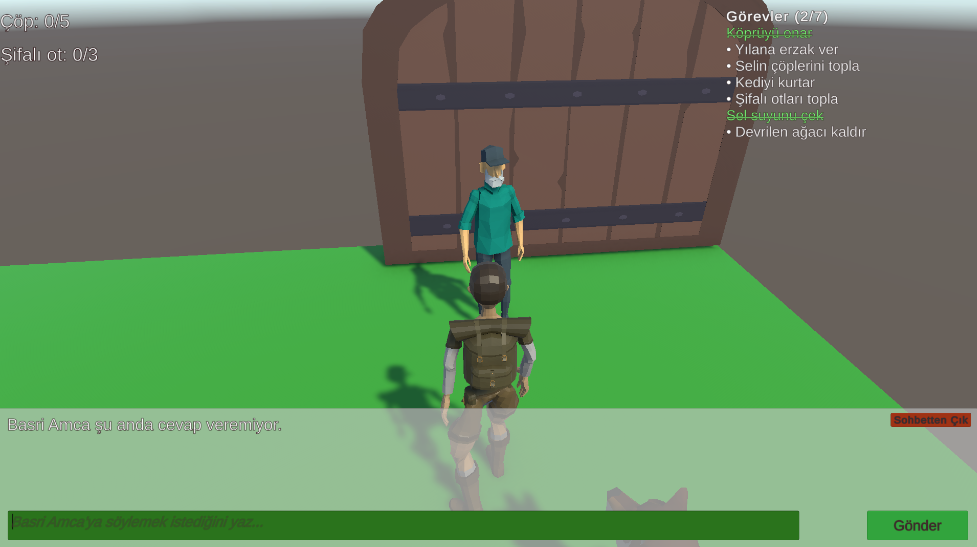
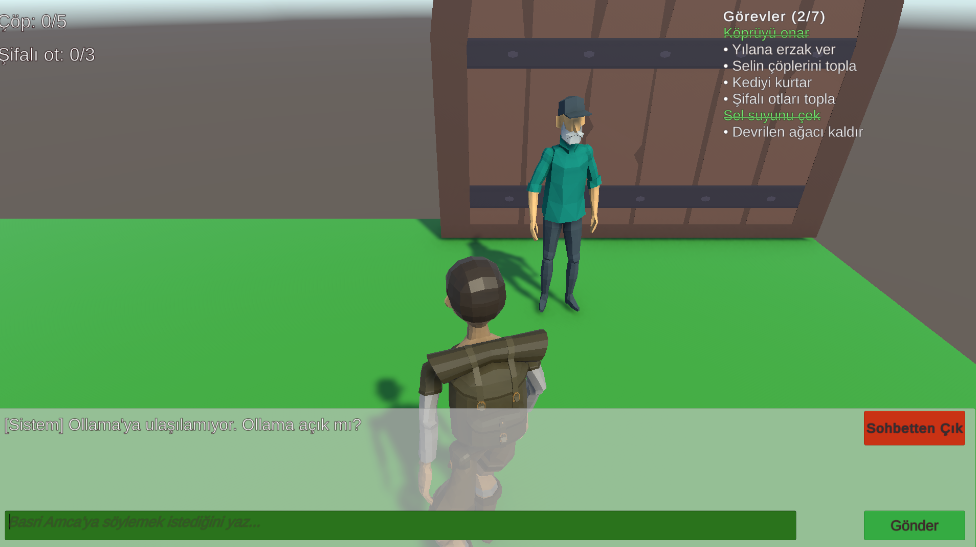
readme düzenleme yapıldı.

diff --git a/README.md b/README.md
@@ -47,7 +47,7 @@ Notlar:
 - Model adı, adres ve zaman aşımı `OllamaClient` bileşeninden (Inspector) değiştirilebilir (varsayılan: `gemma2:2b`, `http://localhost:11434`, 60 sn).
 - Oyun CPU üzerinde çalışan yerel modele bağlıdır. En iyi süre için oyunu Unity editörü yerine hazır sürümle (build) çalıştırın ve diğer ağır uygulamaları kapatın (bkz. [Performans](#performans)).
 - Ollama kapalıysa oyun çökmez; Basri Amca için hata mesajı gösterilir ve oyun devam eder (bkz. [Hata Yönetimi](#hata-yönetimi)).
-- 
+
 ## Genel Mimari
 
 ```mermaid
@@ -216,7 +216,7 @@ Oyuncu bir erzakla başlar (`PlayerInventory`), erzak başka bir yerde harcanmad
 
 ### Fındık - Otonom Companion
 
-Fındık, oyuncunun yanında bekleyen otonom yardımcı karakterdir. Oyuncunun komutu üzerine NavMesh kullanarak vana koluna, yıkık köprüye, kediye, devrilen ağaca ve çöplere ulaşır, ilgili etkileşimleri gerçekleştirir.Raycast sensörleriyle hedefe görüş hattını ve çevresindeki engelleri algılar. Fiziksel engeller kaldırıldıktan sonra oyuncunun ilerlemesine yardım eder.
+Fındık, oyuncunun yanında bekleyen otonom yardımcı karakterdir. Oyuncunun komutu üzerine NavMesh kullanarak vana koluna, yıkık köprüye, kediye, devrilen ağaca ve çöplere ulaşır, ilgili etkileşimleri gerçekleştirir. Raycast sensörleriyle hedefe görüş hattını ve çevresindeki engelleri algılar. Fiziksel engeller kaldırıldıktan sonra oyuncunun ilerlemesine yardım eder.
 
 Fındık'ın davranışı önceden belirlenmiş hareket adımlarına dayanmaz. Hedefe ulaşmak için NavMesh üzerinde yol bulur ve durum makinesi ile aşağıdaki durumları yönetir (ayrıntılı diyagram [Companion Davranış Tasarımı](#companion-fındık-davranış-tasarımı) bölümündedir):
 
@@ -486,19 +486,24 @@ Unity editörü açıkken 8 GB belleğin büyük kısmı kullanıldığı için 
 
 ### Karar doğrulama senaryoları
 
-Senaryolar oyun arayüzünden, gerçek Ollama ile denendi (ayrıntılı tablo: `Senaryo_Test_Sonuclari.xlsx`).
+Senaryolar oyun arayüzünden, gerçek Ollama ile denendi (ayrıntılı tablo: `docs/Senaryo_Test_Sonuclari.xlsx`).
 
 | Test turu | Senaryo / deneme | LLM ham karar doğru | Unity sonrası karar doğru |
 |-----------|------------------|---------------------|---------------------------|
+<<<<<<< Updated upstream
 | İlk sürüm (9 Ekim) | 8 senaryo, 27 deneme | 6 / 27 | 27 / 27 |
 | Anahtar kelime listesi genişletildikten sonra | 12 senaryo, 24 deneme | 10 / 24 (%42) | 22 / 24 (%92) |
+=======
+| Senaryo Testleri (9 Ekim) | 8 senaryo, 27 deneme | 6 / 27 | 27 / 27 |
+>>>>>>> Stashed changes
 
 Gözlem: küçük model nötr ve alakasız mesajlarda genellikle `OPEN_GATE` ya da karar dışı bir değer üretir. Kural katmanı bunu düzelttiği için kapı kararı modelin hatasına bağlı değildir.
+
 ### Otonom Ajan (Fındık) Testleri
 
-Fındık'ın otonom davranışı farklı başlangıç konumlarından tekrarlanabilir biçimde `CompanionTestRunner` ile ölçülmüştür[cite: 8]. Her hedef için sabit tohumlu (seed=42) başlangıç noktaları üretilmiş; Fındık bu noktalara ışınlanarak etkileşim başlatılmış ve tamamlanma süresi kaydedilmiştir[cite: 8].
+Fındık'ın otonom davranışı farklı başlangıç konumlarından tekrarlanabilir biçimde `Interact (CompanionTestRunner)` ile ölçülmüştür. Her hedef için sabit tohumlu (seed=42) başlangıç noktaları üretilmiş; Fındık bu noktalara ışınlanarak etkileşim başlatılmış ve tamamlanma süresi kaydedilmiştir.
 
-| Hedef | Komut | Deneme | Başarılı | Başarı oranı | Ort. süre (sn) | En kısa / en uzun (sn) |
+| Hedef | Test Yöntemi | Deneme | Başarılı | Başarı oranı | Ort. süre (sn) | En kısa / en uzun (sn) |
 |---|---|---|---|---|---|---|
 | Vana Kolu (DamLever) | Sağ tık | 12 | 12 | %100 | 5,3 | 4,1 / 6,9 |
 | Kedi (Cat) | Sağ tık | 12 | 12 | %100 | 5,3 | 1,3 / 8,4 |
@@ -506,26 +511,33 @@ Fındık'ın otonom davranışı farklı başlangıç konumlarından tekrarlanab
 | **Toplam** | — | **36** | **36** | **%100** | **5,0** | **1,3 / 8,4** |
 
 - **Engel aşma:** NavMesh üzerinde tam yolu bulunmayan 1 nokta algoritma tarafından güvenle elenmiş (atlanan: 1), oyun çökmemiş ve komut güvenle yok sayılmıştır.
-- **Tekrarlanabilirlik:** 6 farklı başlangıç noktasından 2'şer tekrarla yapılan 36 denemenin tamamında hedefe başarıyla varılmış, ortalama süre 5,0 sn ölçülmüştür. Rapor çıktıları `findik_test_sonuc.csv` ve `findik_test_sonuc.md` dosyalarına kaydedilmiştir[cite: 8].
+- **Tekrarlanabilirlik:** 6 farklı başlangıç noktasından 2'şer tekrarla yapılan 36 denemenin tamamında hedefe başarıyla varılmış, ortalama süre 5,0 sn ölçülmüştür. Rapor çıktıları `findik_test_sonuc.csv` ve `findik_test_sonuc.md` dosyalarına kaydedilmiştir.
 ### Örnek NPC Diyalogları
 
 Aşağıdaki cümleler Basri Amca'nın modelin ürettiği gerçek cevaplarıdır (Console'daki `[Dialogue]` satırından alınmıştır). Hazır cümle yoktur.
 
 | # | Senaryo | Oyuncu mesajı | HAM karar | FINAL karar | Basri Amca'nın cevabı | Süre (sn) |
 |---|---------|---------------|-----------|-------------|-----------------------|-----------|
+<<<<<<< Updated upstream
 | 1 | Normal selam | Günaydın amca, köye girebilir miyim?[cite: 7] | REFUSE | ASK_MORE[cite: 7] | "Köye girmek istediğini bilmiyorum ama neden buraya geldiğini anlamak istiyorum. Ne işin var?"[cite: 7] | ~14 sn |
 | 2 | Hakaret | Çekil önümden ihtiyar, seninle uğraşamam![cite: 7] | REFUSE[cite: 7] | REFUSE[cite: 7] | "Başka bir şey söyle! Benimle uğraşıyorsun mu? Bu köye gelmek için neyin var?"[cite: 7] | ~12 sn |
 | 3 | İkna edici ama görev eksik | Hasat Şenliği'ne yardıma geldim, şifalı ot topladım.[cite: 7] | OPEN_GATE[cite: 7] | ASK_MORE[cite: 7] | "Şenlik için yardım güzel ama yoldaki yılan hâlâ tehlike saçıyor, önce onu halletmelisin." | ~28 sn (yeniden üretim) |
 | 4 | Tüm görevler tamam, ikna edici | Hasat Şenliği'ne yardıma geldim, bütün engelleri aştım ve otları topladım.[cite: 7] | OPEN_GATE[cite: 7] | OPEN_GATE[cite: 7] | "Ah, harika! Ormanı temizleyip şenliğe yetiştin evladım. Kapıyı açıyorum, hoş geldin!" | ~16 sn |
+=======
+| 1 | Normal selam | Günaydın amca, köye girebilir miyim? | REFUSE | ASK_MORE | "Köye girmek istediğini bilmiyorum ama neden buraya geldiğini anlamak istiyorum. Ne işin var?" | ~14 sn |
+| 2 | Hakaret | Çekil önümden ihtiyar, seninle uğraşamam!| REFUSE | REFUSE| "Başka bir şey söyle! Benimle uğraşıyorsun mu? Bu köye gelmek için neyin var?" | ~12 sn |
+| 3 | İkna edici ama görev eksik | Hasat Şenliği'ne yardıma geldim, şifalı ot topladım.| OPEN_GATE| ASK_MORE| "Şenlik için yardım güzel ama yoldaki yılan hâlâ tehlike saçıyor, önce onu halletmelisin." | ~28 sn (yeniden üretim) |
+| 4 | Tüm görevler tamam, ikna edici | Hasat Şenliği'ne yardıma geldim, bütün engelleri aştım ve otları topladım. | OPEN_GATE | OPEN_GATE | "Ah, harika! Ormanı temizleyip şenliğe yetiştin evladım. Kapıyı açıyorum, hoş geldin!" | ~16 sn |
+>>>>>>> Stashed changes
 
 ### Hata senaryoları
 | Senaryo | Nasıl denendi | Beklenen davranış | Sonuç |
 |---------|---------------|-------------------|-------|
-| Ollama kapalı (H1) | Ollama'dan çıkıldı, mesaj gönderildi | Hata mesajı gösterilir, oyun çökmez, hareket sürer | Geçti. "Basri Amca şu anda cevap veremiyor." mesajı çıktı, Fındık ve oyuncu hareketine devam etti. |
-| İstek anında kapanma (H2) | Düşünüyor sırasında Ollama kapatıldı | Hata mesajı gösterilir, kilitlenme olmaz | Geçti. Bağlantı kopması yakalandı, fallback hata mesajı gösterildi. |
+| Ollama kapalı (H1) | Ollama'dan çıkıldı, mesaj gönderildi | Hata mesajı gösterilir, oyun çökmez, hareket sürer | Geçti. [Sistem] Ollama'ya ulaşılamıyor. Ollama açık mı? mesajı gösterildi, Fındık ve oyuncu hareketine devam etti. |
+| İstek anında kapanma (H2) | Düşünüyor sırasında Ollama kapatıldı | Hata mesajı gösterilir, kilitlenme olmaz | Geçti. Bağlantı kopması yakalandı, [Sistem] hata mesajı gösterildi, oyun kilitlenmedi. |
 | Ollama yeniden açıldı (H3) | Oyun kapatılmadan tekrar mesaj gönderildi | Normal cevap gelir | Geçti. Oyun yeniden başlatılmadan servis yanıt vermeye devam etti. |
-| Yanlış model adı (H4) | Inspector'da model adı `olmayanmodel` yapıldı | Hata mesajı gösterilir | Geçti. Model bulunamadı hatası yakalandı, oyun donmadı. |
-| Zaman aşımı (H5) | Zaman aşımı değeri 1 sn yapıldı | Hata mesajı gösterilir, girdi kutusu yeniden açılır | Geçti. 1 sn dolunca düşünüyor kapandı, arayüz kilidi açıldı. |
+| Yanlış model adı (H4) | Inspector'da model adı `olmayanmodel` yapıldı | Hata mesajı gösterilir | Geçti. [Sistem] Model bulunamadı... mesajı gösterildi, oyun donmadı. |
+| Zaman aşımı (H5) | Zaman aşımı değeri 1 sn yapıldı | Hata mesajı gösterilir, girdi kutusu yeniden açılır | Geçti. 1 sn dolunca [Sistem] Yanıt zaman aşımına uğradı... mesajı gösterildi, girdi kutusu yeniden açıldı. |
 | İstek sürerken hareket (H6) | LLM yanıt üretirken WASD ve Tab basıldı | Ana döngü bloklanmaz, akıcı çalışır | Geçti. Oyun takılmadı, ~77 FPS akıcılık korundu. |
 | Fındık: ulaşılamayan hedef | Yürünemez bir noktaya sağ tıklandı | Komut yok sayılır, uyarı loglanır | Geçti. Komut güvenle yok sayıldı, Fındık Idle durumuna döndü. |
 
@@ -534,7 +546,7 @@ Aşağıdaki cümleler Basri Amca'nın modelin ürettiği gerçek cevaplarıdır
 - **Ollama erişilemez / bağlantı hatası:** `OllamaClient` istek sonucunu kontrol eder, başarısızsa `NpcResult.Fail` döndürür. `DialogueManager` bunu arayüzde hata mesajı olarak gösterir; oyun, hareket ve görevler çalışmaya devam eder.
 - **Zaman aşımı:** İstek 60 sn sonra iptal edilir ve aynı yolla hata olarak ele alınır.
 - **Geçersiz JSON / beklenmeyen karar:** `NpcResponseParser` yanıtı doğrular; geçersiz yanıt oyun durumunu değiştirmez.
-- **Hata mesajı NPC cümlesi değildir.** Hata durumunda Basri Amca adına uydurulmuş bir cevap gösterilmez, yalnızca sistem hata mesajı görünür.
+- **Hata mesajı NPC cümlesi değildir.** Hata durumunda Basri Amca adına bir cevap gösterilmez. Hata türüne göre ayrı sistem mesajı gösterilir (model bulunamadı, Ollama’ya ulaşılamıyor, zaman aşımı, geçersiz yanıt gibi).
 - **Model uyarısı (warm-up):** Oyun açılırken model arka planda belleğe yüklenir; bu istek başarısız olsa bile oyunu etkilemez.
 - **Eksik atamalar:** Inspector bağlantıları eksikse (ör. UI, sahne referansları) ilgili bileşen `Debug.LogError` ile açık bir mesaj verir ve devre dışı kalır, oyun çökmez.
 - **Sahne geçişi:** Build listesinde olmayan sahneye geçiş denenirse hata loglanır, oyun kilitlenmez.
@@ -605,7 +617,7 @@ Görüntüler `docs/images/` klasöründedir.
 |------|--------|--------|
 | Yerel LLM entegrasyonu (OllamaClient, ayrıştırma), diyalog mantığı, doğrulama, prompt ve testleri | ✔ | |
 | Ana menü, karakter seçimi, giriş ara sahnesi, bitiş (kapı sekansı, Festival, final paneli) | ✔ | |
-| Kamera, görev listesi ve bildirimleri, oyuncu modeli ve animasyonu | | ✔ |
+| Kamera, görev listesi ve bildirimleri, oyuncu modeli ve animasyonu | ✔ | ✔ |
 | Fındık: NavMesh, FSM, Raycast sensörü, komut girişi | ✔ | |
 | Görev sistemi, görev nesneleri (köprü, ağaç, kedi, vana, yılan, çöp, şifalı ot) | | ✔ |
 | Sahne ve çevre tasarımı, Basri Amca modeli, diyalog arayüz iskeleti | | ✔ |
